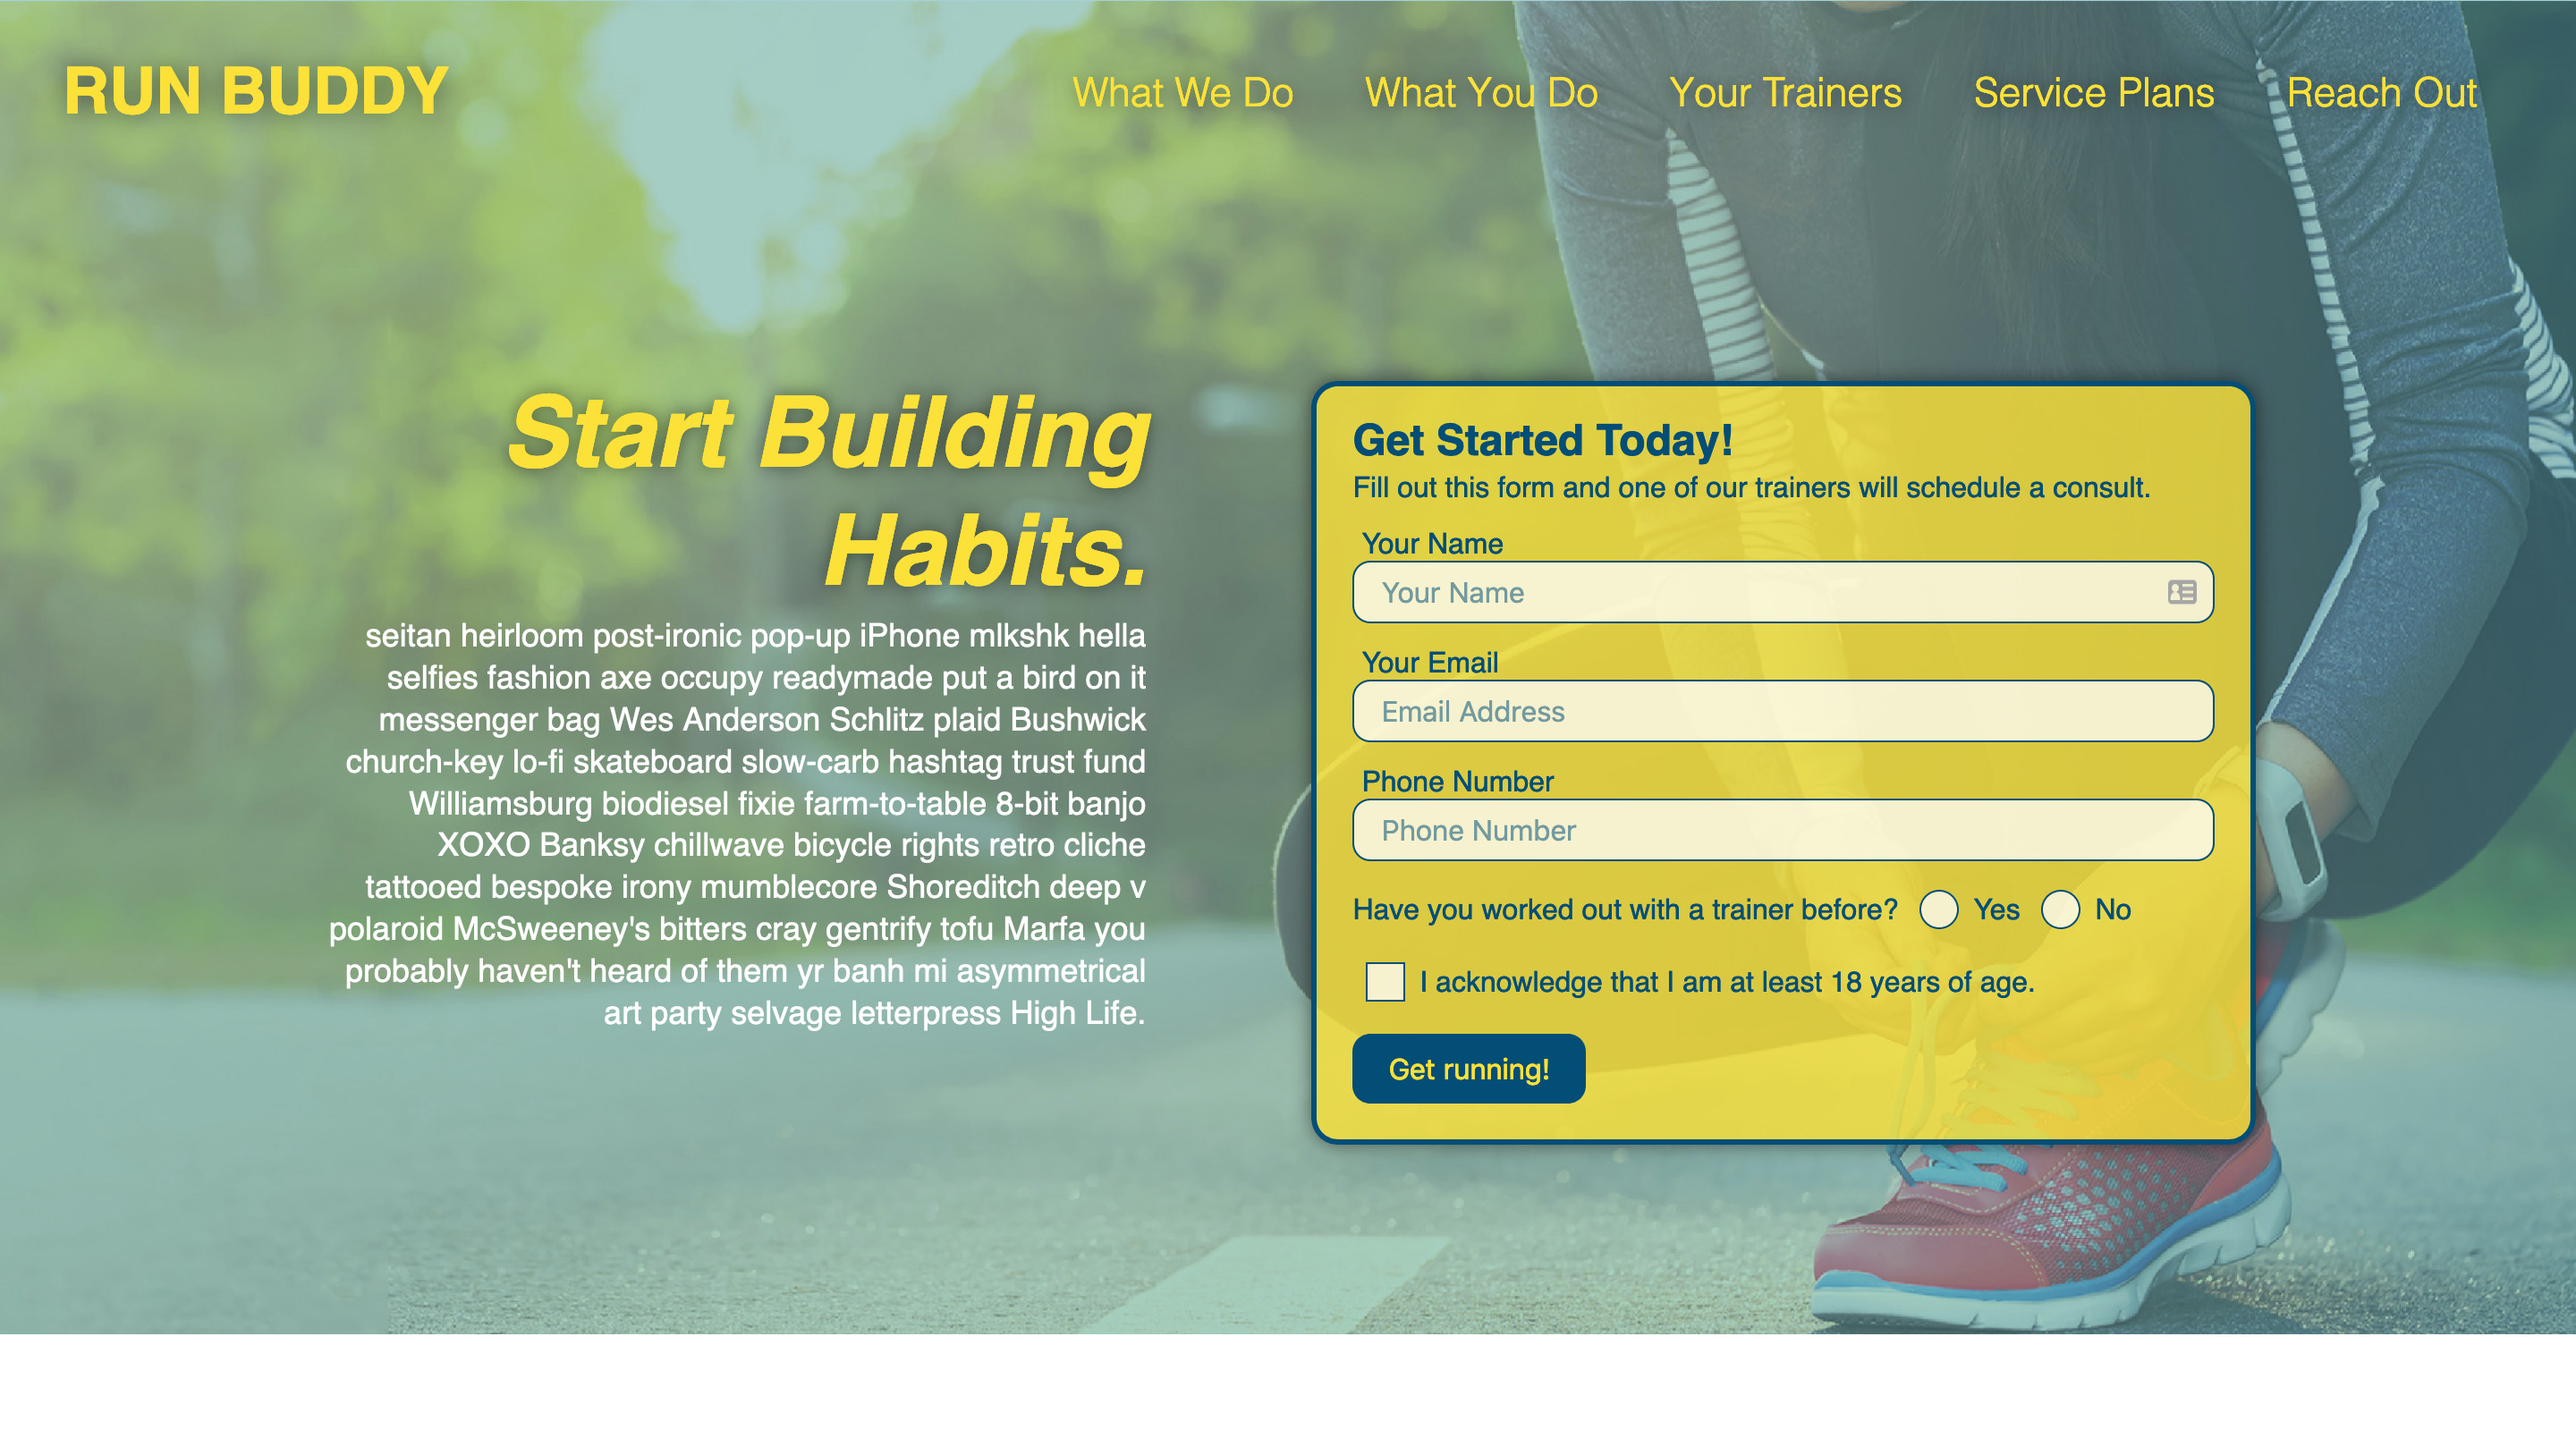
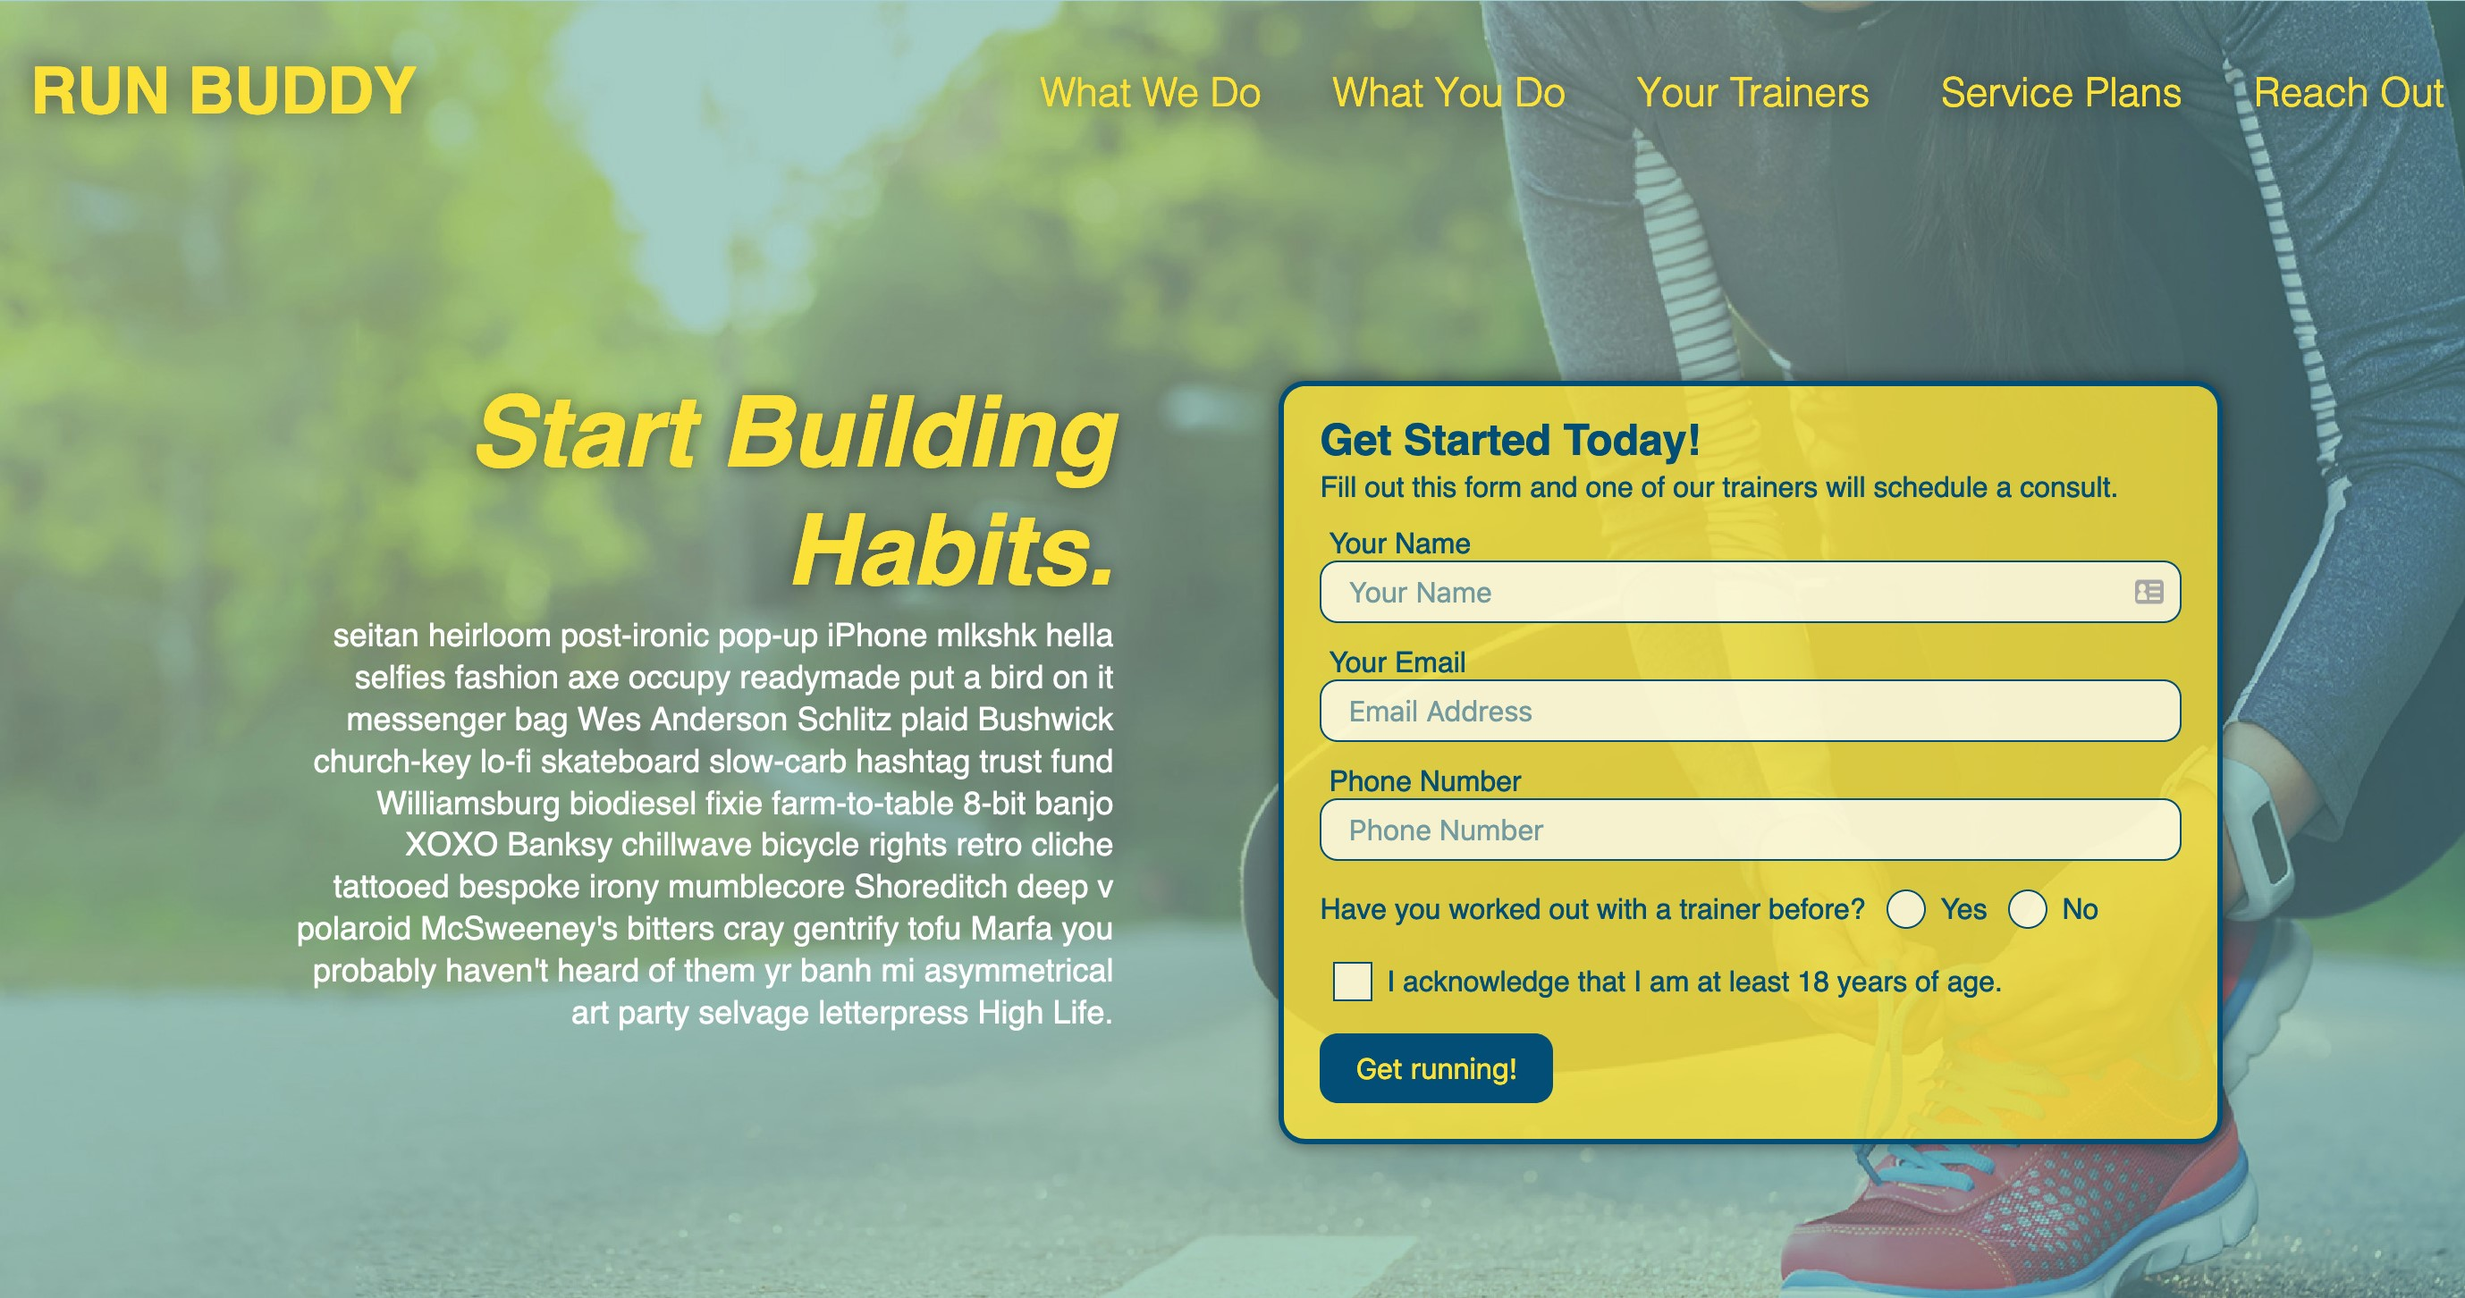
added grid to work section and added profile pic

diff --git a/assets/css/style.css b/assets/css/style.css
@@ -1,9 +1,9 @@
 :root{
   --lightblue: lightblue;
-  --darkblue: #104c68;
-  --navy: #203e57;
+  --darkblue: #124258;
 }
 
+/* Global Defaults */
 * {
   box-sizing: border-box;
 }
@@ -24,11 +24,6 @@ h6 {
   margin: 0;
 }
 
-p {
-  margin: 10px;
-  color: var(--navy);
-}
-
 /* Navigation Bar CSS */
 #navBar{
   width: auto;
@@ -40,9 +35,8 @@ p {
   background-color: var(--darkblue);
 }
 
+/* defaults for heading */
 #navBar h1{
-  display: flex;
-  justify-content: flex-end;
   background-color: var(--lightblue);
   width: 20%;
   padding: 10px;
@@ -50,27 +44,27 @@ p {
   color: var(--darkblue);
 }
 
-#navigation {
+/* defaults for navigation buttons */
+#navigation{
   display: flex;
+  justify-content: space-around;
+  width: 30%;
   cursor: pointer;
   text-decoration: none;
   padding: 10px;
-  width: 80%;
-  justify-content: flex-end;
 }
 
 #navigation a{
-  padding: 15px;
   font-size: 20px;
   color: var(--lightblue);
+  text-decoration: none;
+  border-bottom: solid var(--lightblue);
 }
 
 /* Hero Image */
 .hero-banner{
-  display:flex;
-  align-items: flex-end;
-  justify-content: flex-end;
-  height: 200px;
+  position: relative;
+  height: 300px;
   width: 100%;
   margin-bottom: 25px;
   background-image: url(../images/02-hero-bg.jpg);
@@ -78,35 +72,37 @@ p {
   background-position: center;
 }
 
-#subtitle {
-  display: flex;
+/* defaults for hero subtitle */
+#subtitle{
+  position: absolute;
+  bottom: 8%;
+  right: 2%;
   padding: 5px;
-  margin-right: 20px;
-  margin-bottom: 20px;
   color: var(--darkblue);
   background-color: var(--lightblue);
-  width:fit-content
+  width: fit-content;
+  z-index: 2;
+}
+
+/* defaults for profile picture */
+.hero-banner img{
+  position: absolute;
+  bottom: 12%;
+  right: 4%;
+  border: 6px solid var(--lightblue);
+  height: 80%;
+  width: auto 40%;
 }
 
 /* Defaults for Page Sections */
-.page-section{
-  width: 100%;
-  /* margin-left: 20px; */
-  /* margin-right: 20px; */
-  /* background-color: lightblue; */
-  float: left;
-}
-
 .page-section h2{
   float: left;
   text-align: right;
   width: 20%;
-  color: var(--navy);
+  color: var(--darkblue);
   font-size: 40px;
   margin: 10px;
   padding: 10px;
-  border-right: solid var(--navy);
-  /* word-wrap: break-word; */
 }
 
 .content{
@@ -114,37 +110,73 @@ p {
   display: flex;
   flex-flow: row wrap;
   margin-right: 10px;
-  padding: 10px;
+  padding-left: 10px;
+  border-left: solid var(--darkblue);
+  margin-bottom: 25px;
 }
 
 /* About Me Section */
 
 /* Work */
-/* Defualts for larger project section */
-.main-project{
-  width: 100%;
-  height: 400px;
-  padding: 10px;
+/* grid set up */
+#grid-container{
+  position: relative;
+  width: 70%;
+  display: grid;
+  column-gap: 10px;
+  row-gap: 10px;
+  grid-template-columns: 1fr 1fr;
+  grid-template-rows: 2fr 1fr 1fr;
+  grid-template-areas: 
+    "mainProject mainProject"
+    "project2 project3"
+    "project4 project5"
 }
 
-.project {
-  width: 50%;
-  height: 200px;
-  padding: 10px;
+.project{
+  border: solid var(--lightblue);
 }
 
-.content img{
-  display: flex;
+.project img{
   width: 100%;
   height: 100%;
-  border: 6px solid var(--lightblue);
 }
 
+#main-project{
+  grid-area: mainProject;
+}
+
+#project2{
+  grid-area: project2;
+  background-color: aqua;
+}
+
+#project3{
+  grid-area: project3;
+  background-color: blue;
+}
+
+#project4{
+  grid-area: project4;
+  background-color: yellowgreen;
+}
+
+#project5{
+  grid-area: project5;
+  background-color: blueviolet;
+}
+
+/* defaults for card headings */
+.card-heading{
+  background-color: var(--lightblue);
+  width: 20%;
+  height: fit-content;
+  padding: 10px;
+  position: absolute;
+}
 
 /* Contact */
-
-
-#contact {
+#contact{
   display: flex;
 }
 
@@ -155,10 +187,8 @@ p {
 }
 
 #contactcontent a{
-  cursor: pointer;
+  font-size: 20px;
+  color: var(--darkblue);
   text-decoration: none;
-  padding: 10px;
-  justify-content: space-evenly;
-  color: var(--navy);
-  border-bottom: solid var(--navy);
+  border-bottom: solid var(--darkblue);
 }

diff --git a/index.html b/index.html
@@ -28,6 +28,7 @@
     <div id="subtitle">
       <h2>Welcome to my portfolio!</h2>
     </div>
+    <img alt="photo of girl in front of wall" src="./assets/images/profilepic.JPG">
   </section>
 
   <main class="page-wrapper">
@@ -47,20 +48,44 @@
     <!-- portfolio container -->
     <section class="page-section" id="work">
       <h2>Work</h2>
-      <div class="content">
-        <div class="main-project">
-          <img src="./assets/images/02-portfolio-4.jpg">
+      <div id="grid-container" class="content">
+        <div id="main-project" class="project">
+          <div class="card-heading">
+            <h3>Horiseon</h3>
+            <p>HTML & CSS</p>
+          </div>
+          <a href="https://emma-231925.github.io/challenge1/" target="blank"><img src="./assets/images/02-portfolio-4.jpg"></a>
         </div>
-        <div class="project">
-          <img src="./assets/images/02-portfolio-1.jpg">
+
+        <div id="project2" class="project">
+          <div class="card-heading">
+            <h3>Prework Study Guide</h3>
+            <p>HTML, CSS & JS</p>
+          </div>
+          <img src="#">
         </div>
-        <div class="project">
+
+        <div id="project3" class="project">
+          <div class="card-heading">
+            <h3>Calculator</h3>
+            <p>HTML & CSS</p>
+          </div>
           <img src="./assets/images/02-portfolio-2.jpg">
         </div>
-        <div class="project">
-          <img src="./assets/images/02-portfolio-3.jpg">
+
+        <div id="project4" class="project">
+          <div class="card-heading">
+            <h3>LED Wall</h3>
+            <p>HTML & CSS</p>
+          </div>
+          <img src="./assets/images/02-portfolio-1.jpg">
         </div>
-        <div class="project">
+
+        <div id="project5" class="project">
+          <div class="card-heading">
+            <h3>Run Buddy</h3>
+            <p>HTML & CSS</p>
+          </div>
           <img src="./assets/images/02-run-buddy.jpg">
         </div>
       </div>
@@ -73,11 +98,9 @@
         <a>07932019385</a>
         <a href="mailto:emma.barnes29@gmail.com">emma.barnes29@gmail.com</a>
         <a href="https://github.com/emma-231925" target="blank">GitHub</a>
-        <a href="#">Twitter</a>
-        <a href="#">Spotify</a>
+        <a href="https://www.linkedin.com/in/emma-barnes-a61ba0129/" target="blank">LinkedIn</a>
       </div>
     </section>
   </main>
 </body>
-
 </html>
